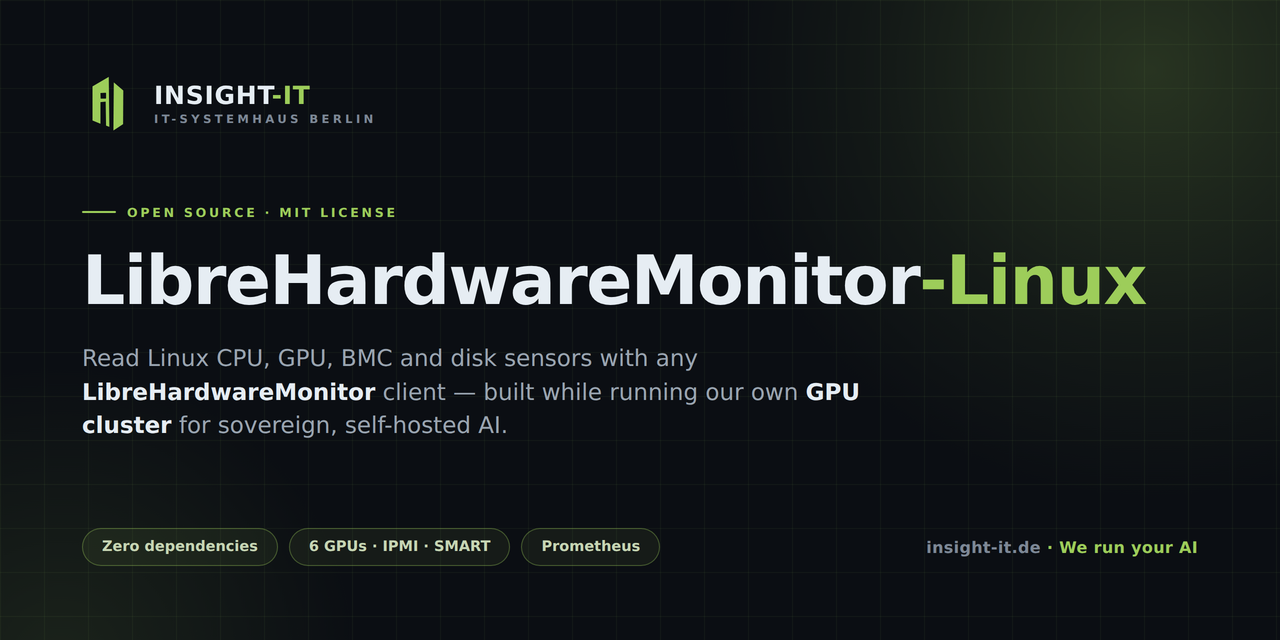
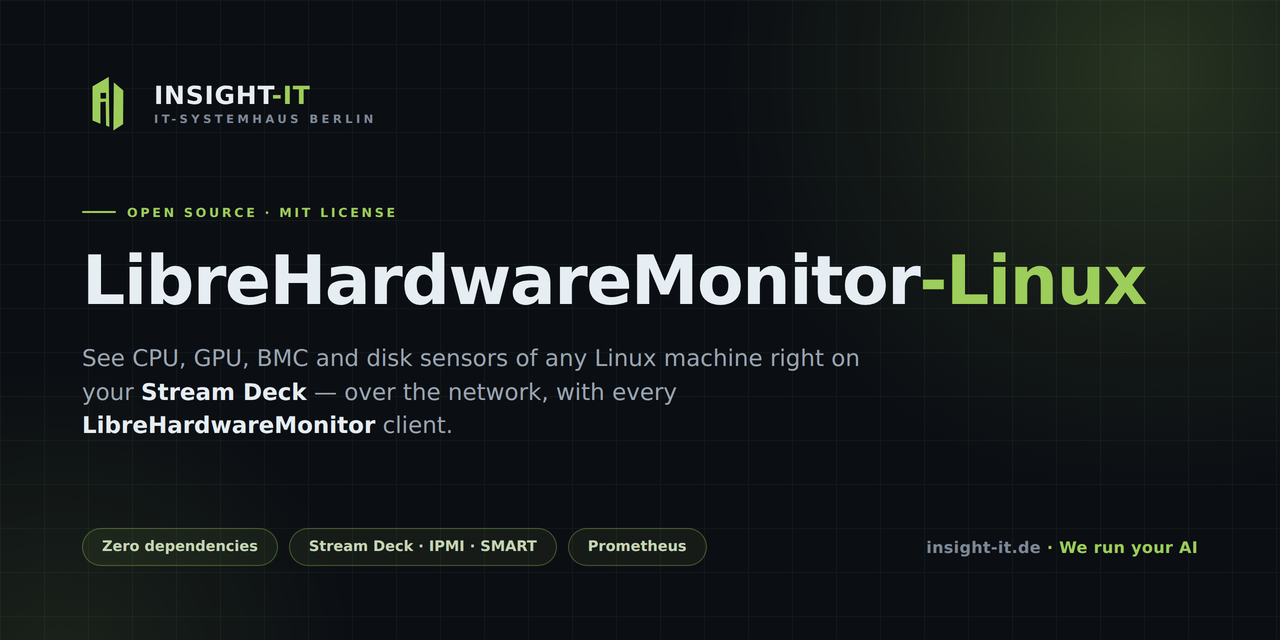
assets: retarget the social preview at Stream Deck users
The origin story (our GPU cluster) means nothing to the people this
tool is for. The card now says what it does: put Linux hardware
sensors on a Stream Deck over the network.

Changed region(s): [[0.0625, 0.5312, 0.6875, 0.6875], [0.25, 0.8438, 0.5625, 0.875]]

diff --git a/.assets/social-preview.html b/.assets/social-preview.html
@@ -68,16 +68,16 @@
     <div class="eyebrow">OPEN SOURCE · MIT LICENSE</div>
     <h1>LibreHardwareMonitor<span class="lime">-Linux</span></h1>
     <div class="sub">
-      Read Linux CPU, GPU, BMC and disk sensors with any
-      <b>LibreHardwareMonitor</b> client — built while running our own
-      <b>GPU cluster</b> for sovereign, self-hosted AI.
+      See CPU, GPU, BMC and disk sensors of any Linux machine
+      right on your <b>Stream Deck</b> — over the network, with every
+      <b>LibreHardwareMonitor</b> client.
     </div>
   </div>
 
   <div class="foot">
     <div class="pills">
       <div class="pill">Zero dependencies</div>
-      <div class="pill">6 GPUs · IPMI · SMART</div>
+      <div class="pill">Stream Deck · IPMI · SMART</div>
       <div class="pill">Prometheus</div>
     </div>
     <div class="dom">insight-it.de<b> · We run your AI</b></div>
